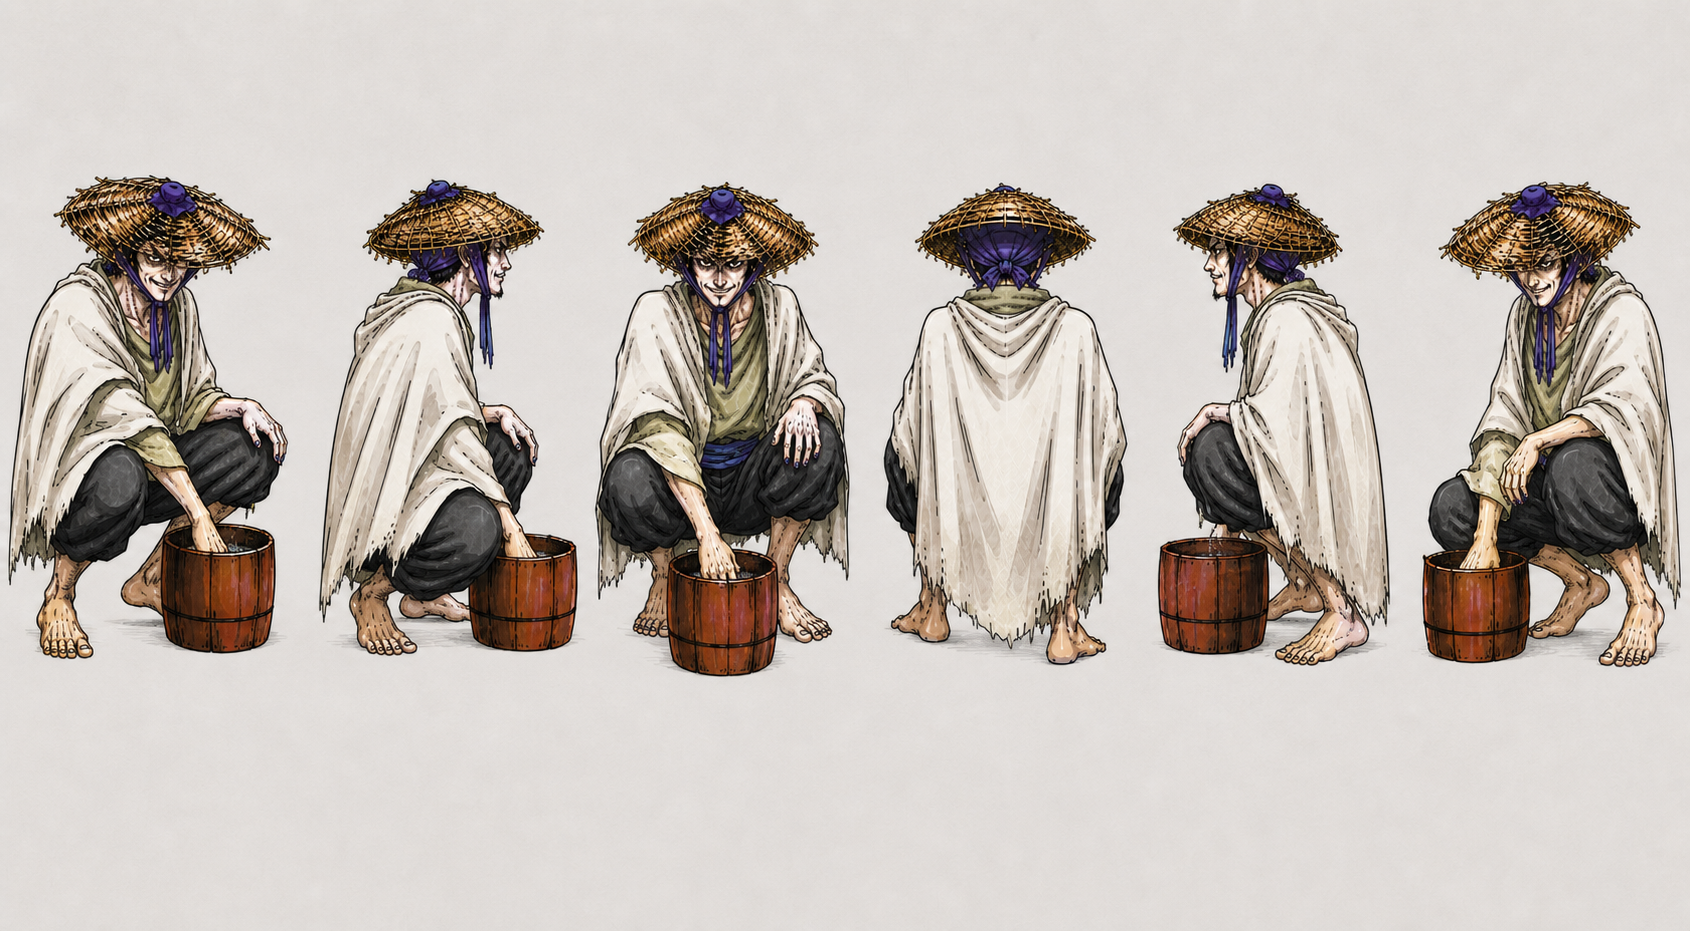
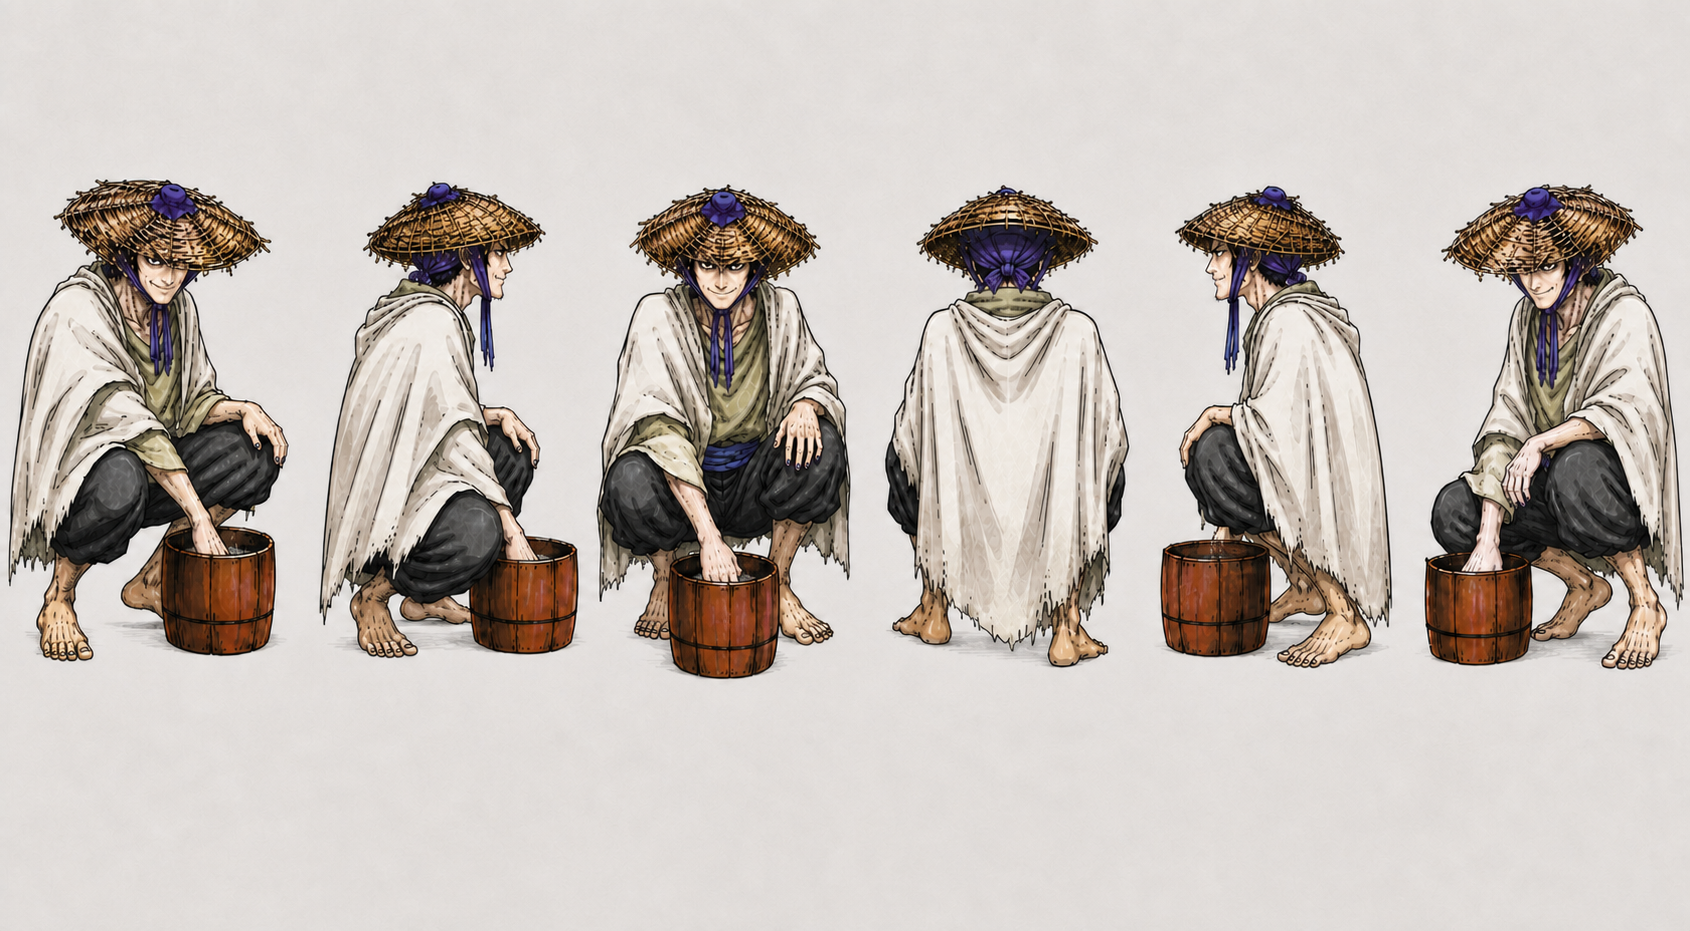
fix(角色设定): 修正 106 无胡须造型
将无胡须更新为原图确认事实，并同步修正中立六视图、原画姿态六视图、头部四视图及生成提示。\n\n保留返修前图像作为递增版本备份。

Changed region(s): [[0.0, 0.1869, 1.0, 0.7476]]

diff --git a/character-model-sheets/characters/106/review-notes.md b/character-model-sheets/characters/106/review-notes.md
@@ -24,7 +24,14 @@
 ## 2026-08-21 头部四视图补充
 
 - [x] 已生成 `head-sheet.png`，严格按正面、纯后脑、角色自身左侧面、角色自身右侧面排列。
-- [x] 四张保持同一身份、颅骨体积、发型／头戴、胡须、颈部尺度、裁切、光照和固定复古手绘画风。
+- [x] 四张保持同一身份、颅骨体积、发型／头戴、无胡须面部、颈部尺度、裁切、光照和固定复古手绘画风；2026-08-22 已按用户反馈返修误加的胡须。
 - [x] 纯后脑没有出现面部；左右侧面来自角色不同解剖侧，未用表情变化代替视角变化。
 - [x] 原图未展示的后脑与连接结构继续按规格中的 `inferred`／`unknown` 克制处理，不宣称为原作事实。
+- 状态保持 `generated`，等待用户批准。
+
+## 2026-08-22 无胡须纠偏
+
+- [x] 原图确认上唇、嘴角、下巴与下颌线无胡须；只保留口唇、鼻下、下巴轮廓和必要面部阴影墨线。
+- [x] 已返修 `character-turnaround.png`、`character-turnaround-original-pose.png` 与 `head-sheet.png` 的全部可见脸部。
+- [x] 旧版分别保留为 `character-turnaround-v3.png`、`character-turnaround-original-pose-v1.png` 与 `head-sheet-v1.png`。
 - 状态保持 `generated`，等待用户批准。
